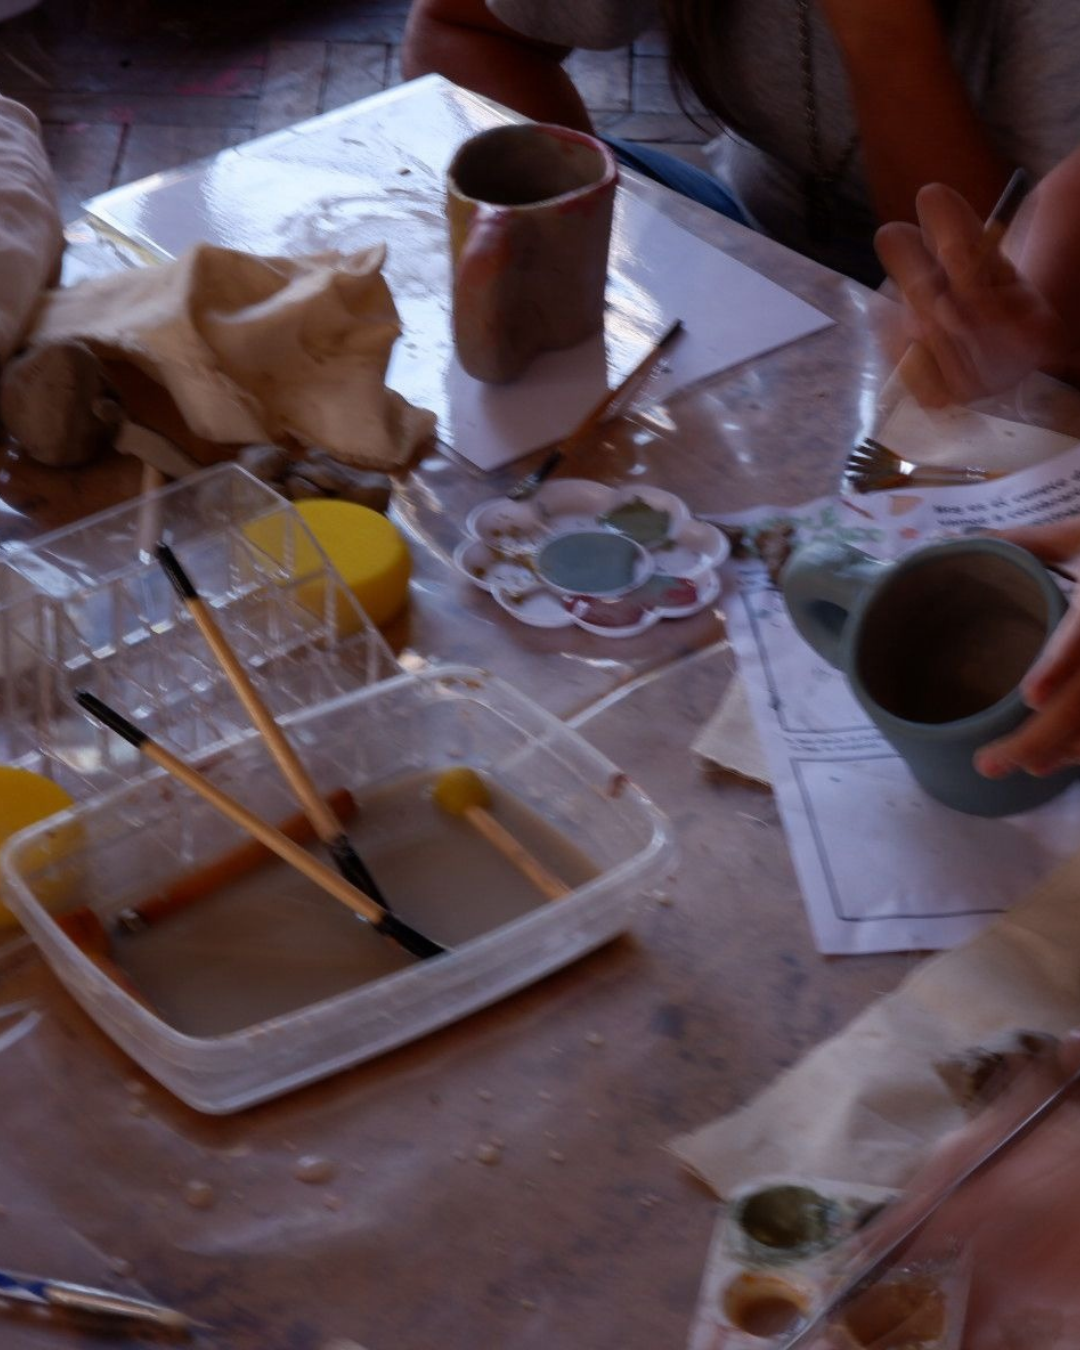
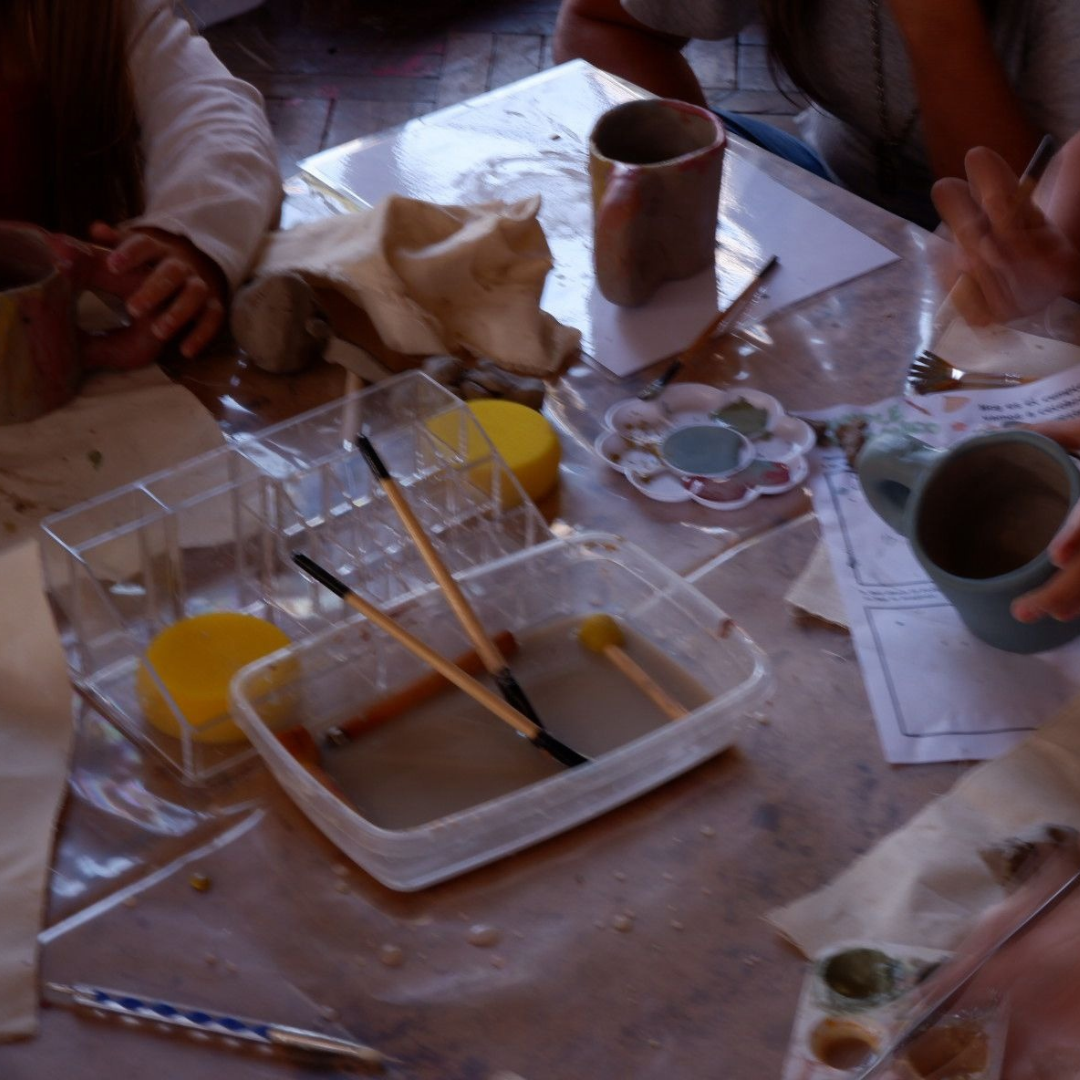
about me term

diff --git a/docs/about/me.md b/docs/about/me.md
@@ -2,22 +2,25 @@
 
 # Sobre mi
 
-![hola.png](./image/me/hola.png){: height="200px"}
+![hola.png](./image/me/hola.png){: width="400px"}
 
 Soy **diseñadora industrial**, con perfil orientado al desarrollo de productos. Me considero una persona *curiosa y creativa*, con especial interés en los procesos que combinan diseño, arte e innovación. Me gusta crear, experimentar con materiales y encontrar nuevas formas de transformar ideas en experiencias y objetos. Disfruto especialmente de los proyectos con un propósito social, educativo o ambiental, y de trabajar en espacios donde pueda aprender, compartir y aportar 🎨🌿
 
-![Video 1](video1.gif){: height="250px"} ![taller](taller.png){: height="250px"}
+
+![Video 1](video1.gif){: width="375px"}   ![taller](taller.png){: width="375px"}
 
 También tengo un gran interés por la **cerámica.** Durante un tiempo llevé adelante un emprendimiento junto con amigas. Actualmente continúo produciendo por mi cuenta en mis tiempos libres 💕
 
-![Instagram](instagram.gif) ![Video 2](video2.gif)
+![Instagram](instagram.gif){: width="375px"} ![Video 2](video2.gif){: width="375px"}
 
 Junto a Pao Maldonado integramos el **Club de Biomateriales,** un espacio de enseñanza, acompañamiento y desarrollo en torno a los biomateriales. Trabajamos a pedido y realizamos talleres de manera esporádica 🪸🌱
 
-![cdb](cdb.jpeg) ![Biohilo](biohilo.gif)
+![cdb](cdb.png){: width="375px"} ![Biohilo](biohilo.gif){: width="375px"}
+
 *Club de Biomateriales* [CldB](https://www.instagram.com/biomaterials_club?stkn=dWxtdmJhM2ZydTRj)
 
-![Biomateriales 4](biomateriales4.jpeg)![Biomateriales 5](biomateriales5.jpeg)
+![Biomateriales 4](biomateriales4.jpeg){: width="375px"} ![Biomateriales 5](biomateriales5.jpeg){: width="375px"}
+
 *Parte del trabajo de grado "Biomateriales a partir de la revalorización de residuos gastronómicos de cafeteria local" que realizamos junto con Lucia Berasain*
 
 Además, trabajo como freelance y en espacios vinculados a lo social. Tengo gustos e intereses muy variados, por eso disfruto involucrarme en proyectos diferentes. Soy bastante inquieta en todos los sentidos 🤸🏽♀
